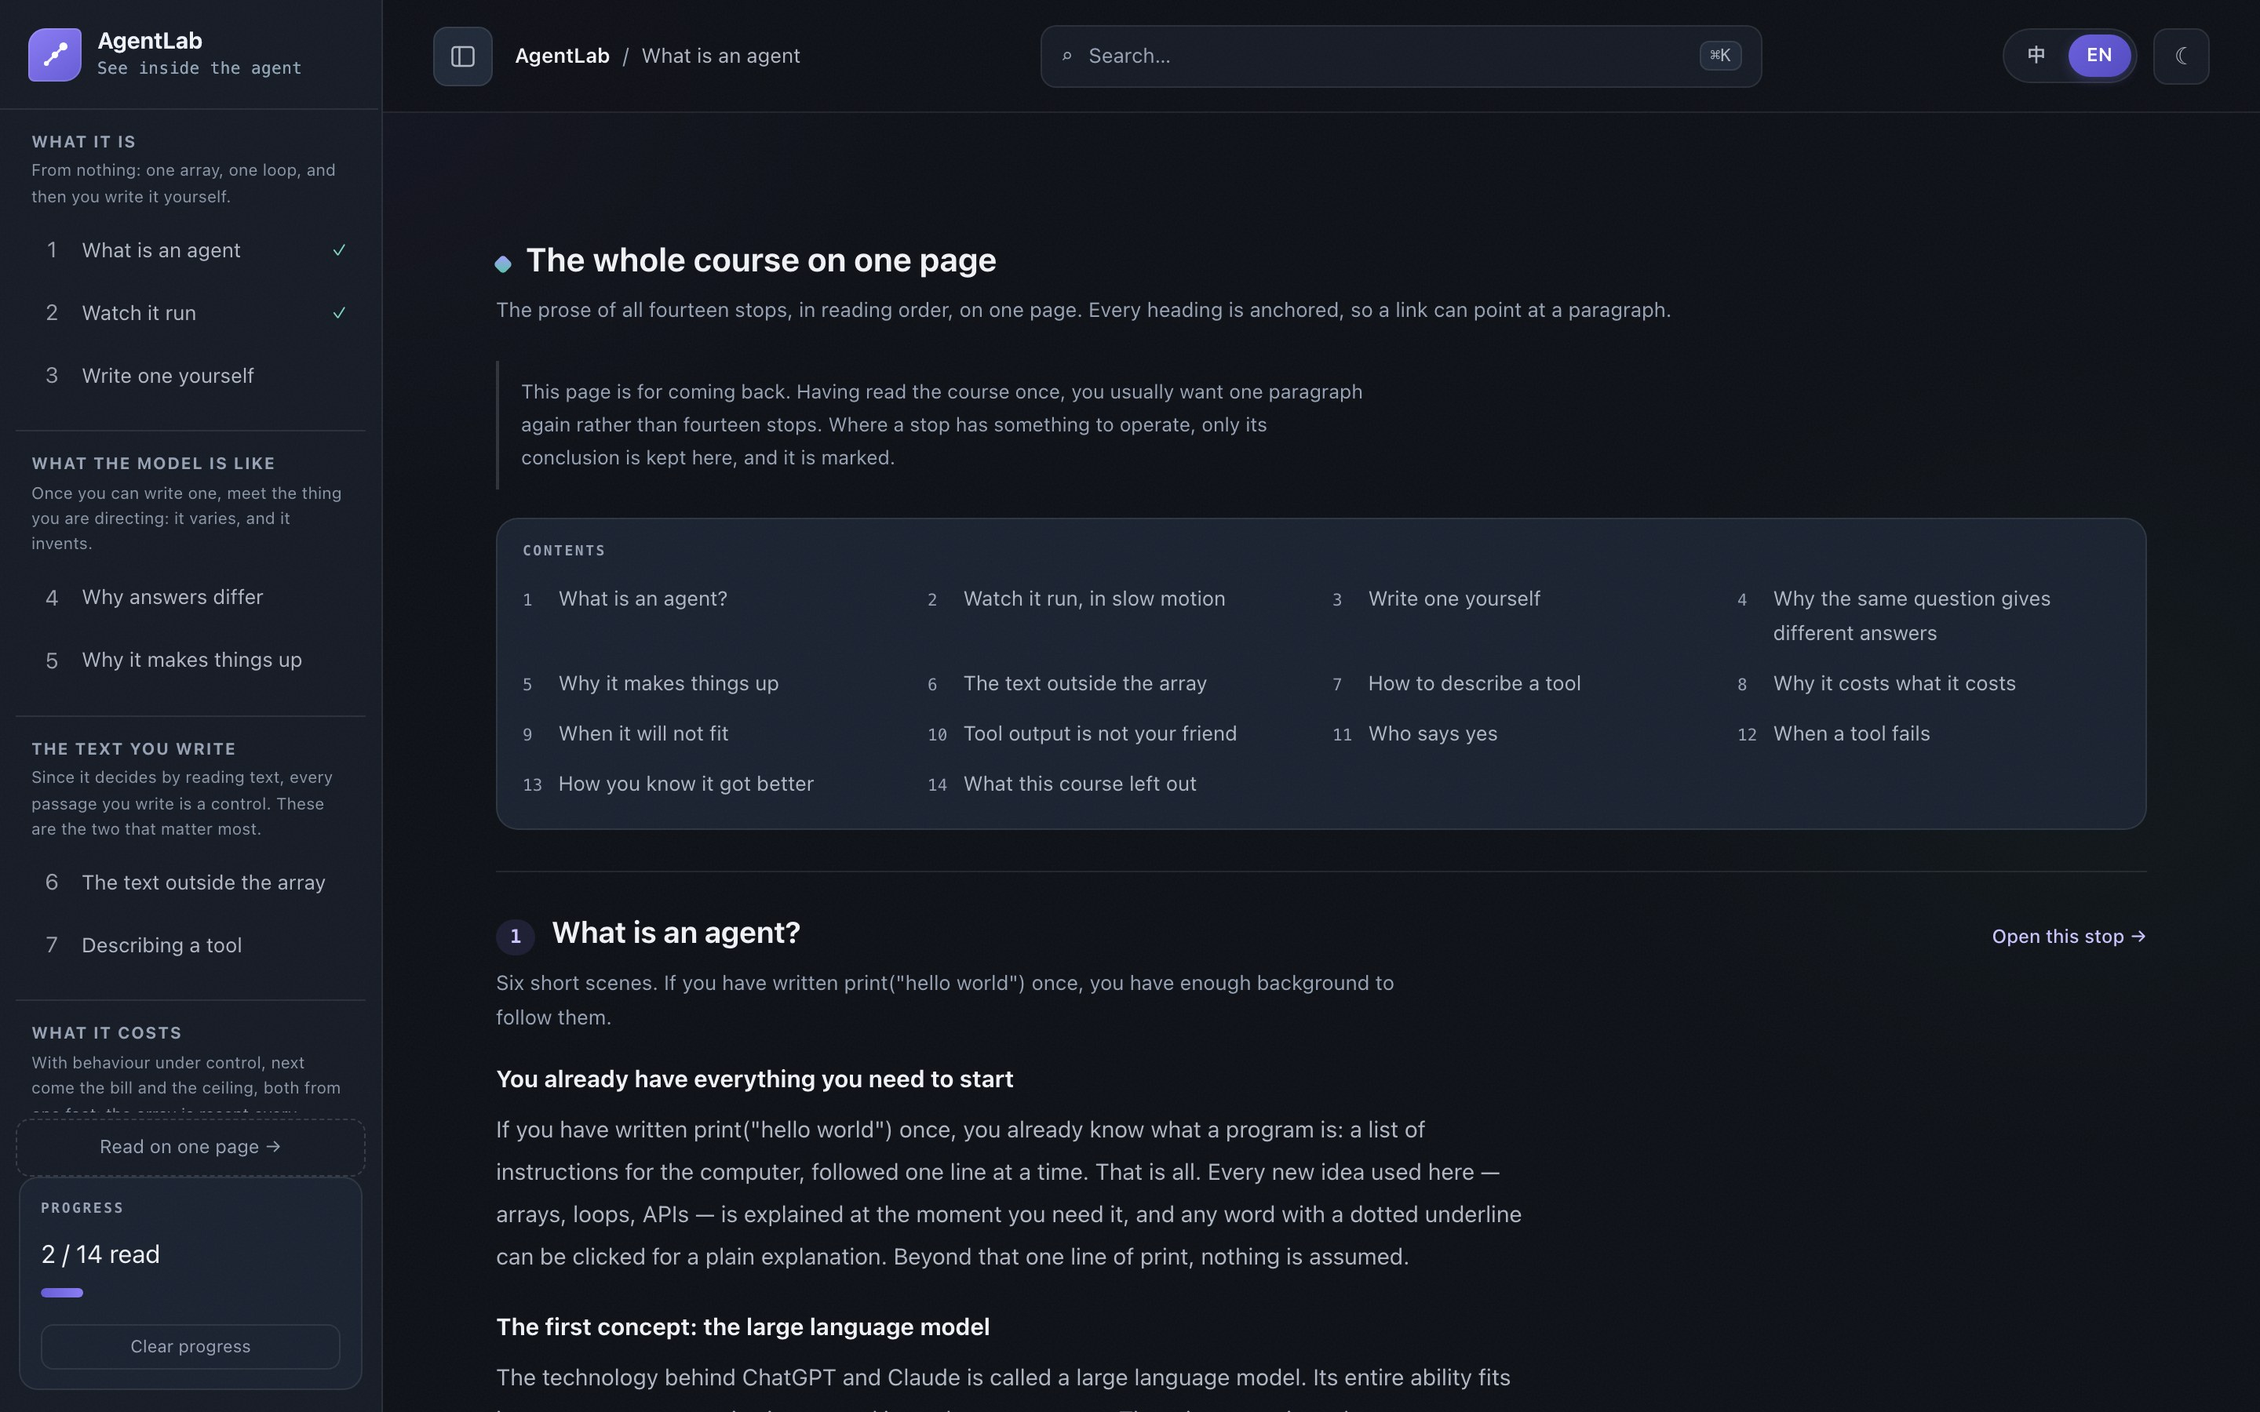
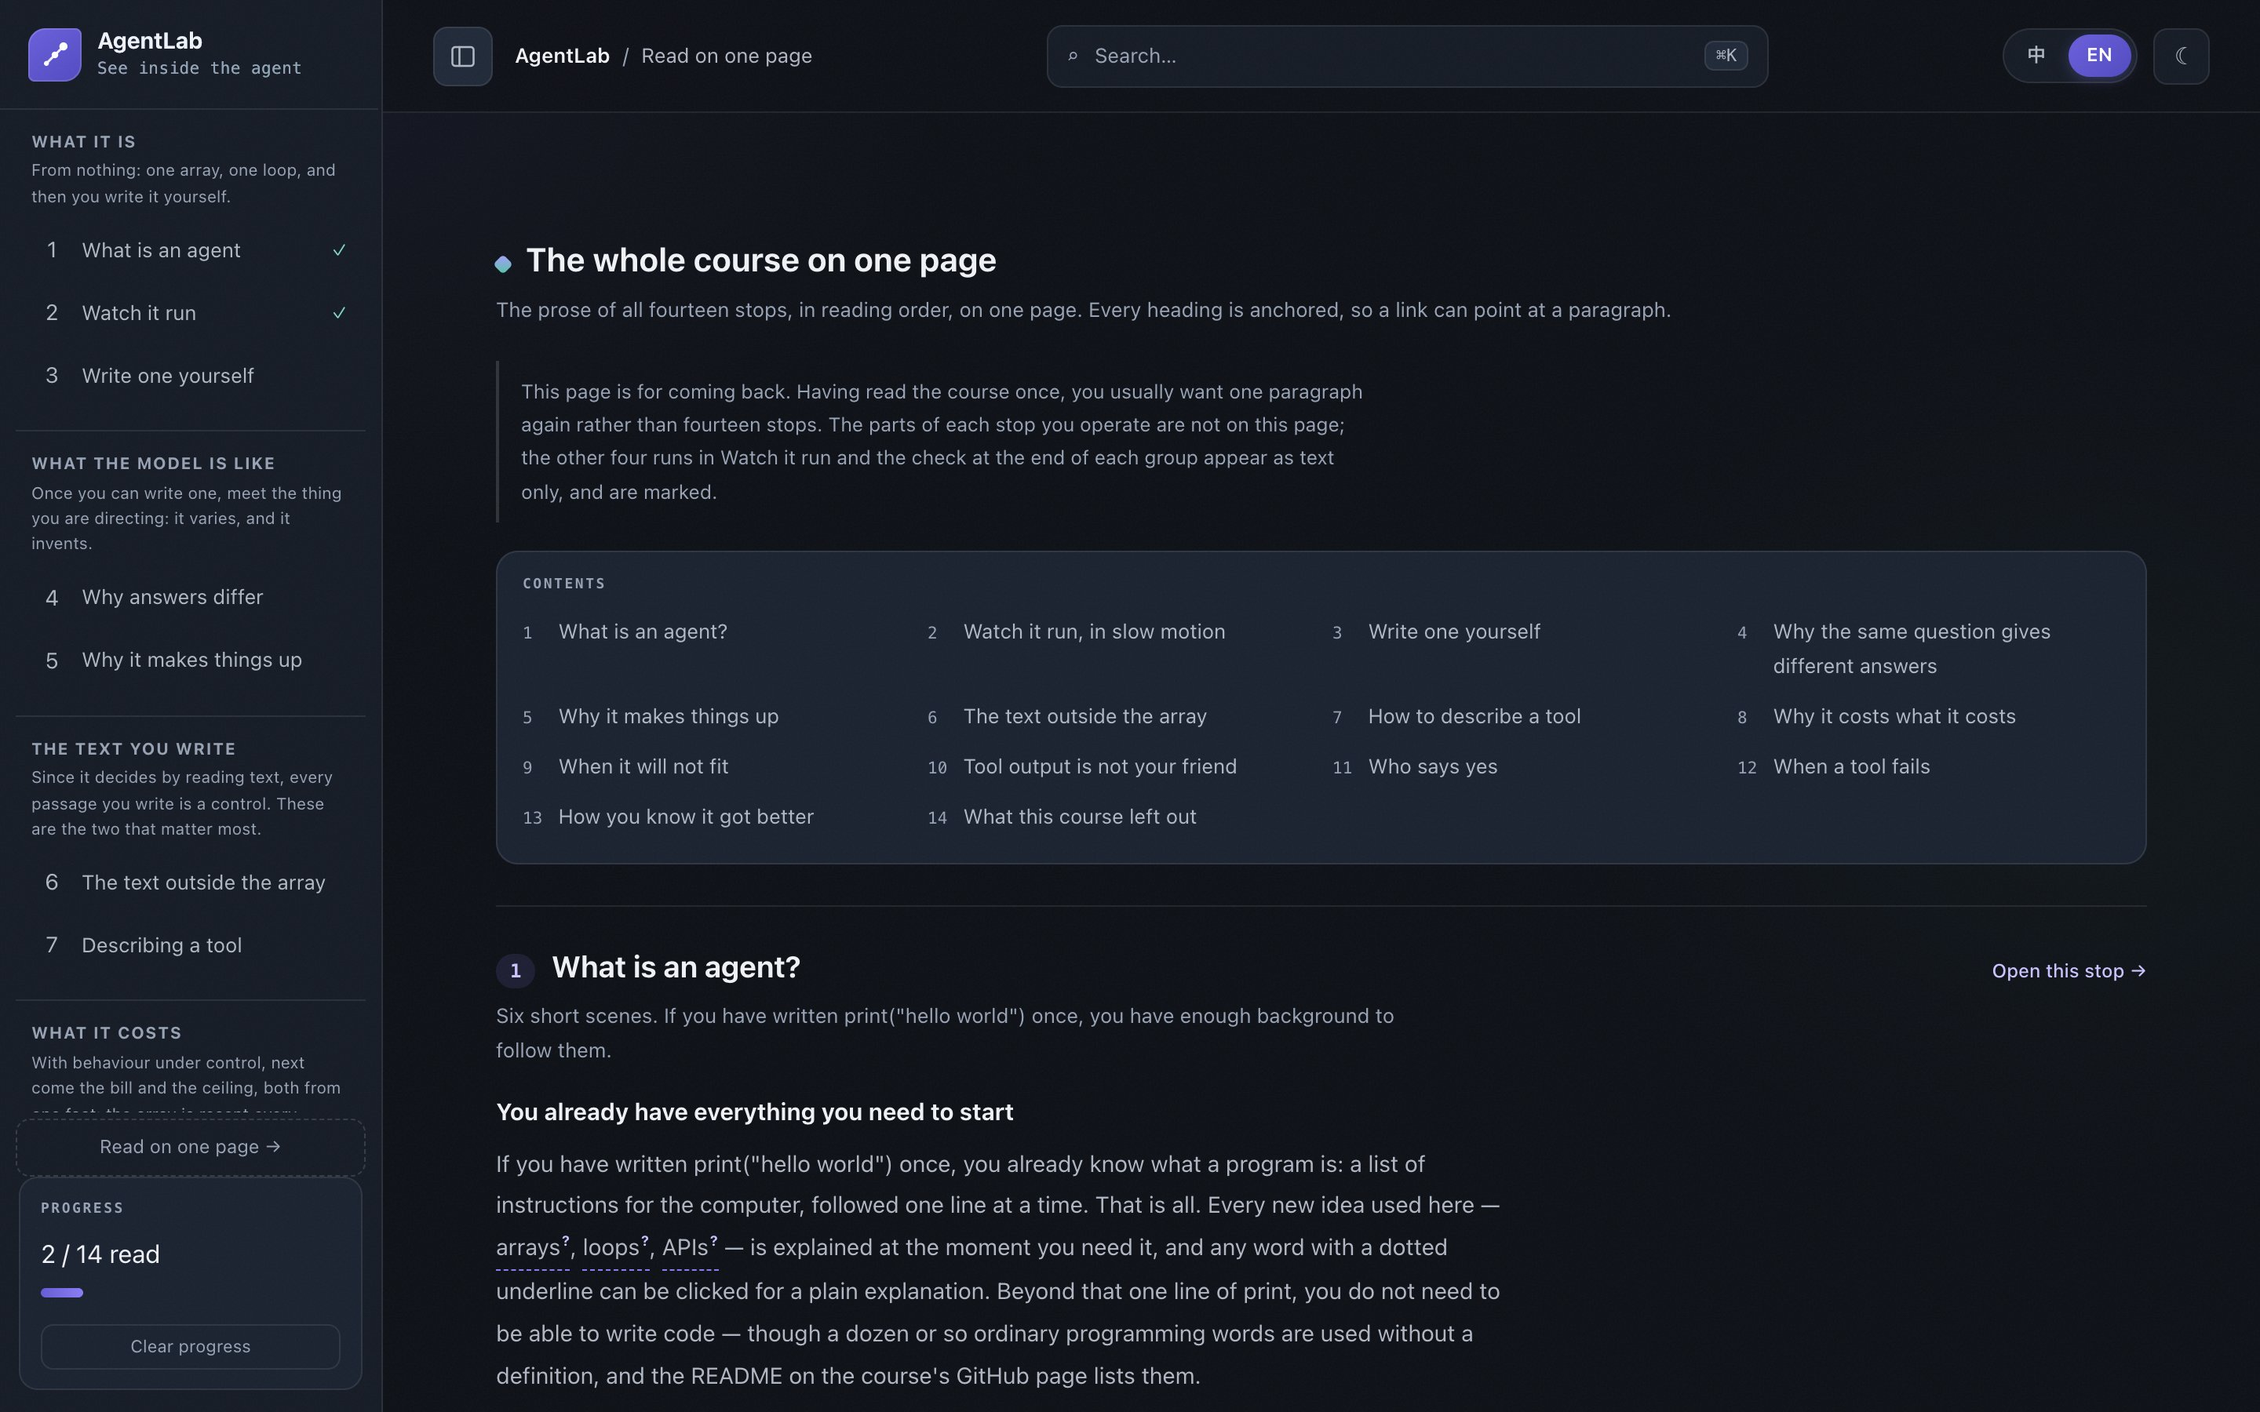
Bring the README, CLAUDE.md and screenshots up to date
The README and CLAUDE.md still described the course before this round of
fixes, and in places before the course reached fourteen stops.

README
- The stop list matches the stops: stop 1 has one line of code, /invent
  says the two answers come from the same process, /instructions removes
  every tool that can send, /again leaves two failure modes uncertain, and
  /build corrects the common wrong answers rather than every one.
- "What it assumes" counts sixteen glossary terms, and the first-met
  stops come from verify.mjs as it now measures them, over everything a
  reader meets at a stop rather than only the /all prose.
- /all, search, the bilingual note, progress and the structure table
  describe the current code: the palette loads its index when it first
  opens, a stop counts as read once you move on from it, lib/stops.ts
  appears once, and there is no useT().
- The verification figures are measured on this commit: 25 content
  checks, 123 assertions, and the contrast traversal at 90.7%, 88.9% and
  88.3% coverage across the three widths.

CLAUDE.md
- The stop list is in order with one entry per stop; /next no longer
  carries the description of /measure; the permission gate is shipped;
  the default Node is 22; the pre-paint scripts sit at the top of <body>
  and the provider writes the attributes back to <html>; new stops are
  registered in lib/order.ts, lib/stops.ts and lib/meta.ts; and the notes
  on markers, the array panel and the verify cache are recorded.
[…]

diff --git a/README.md b/README.md
@@ -43,22 +43,23 @@ be redrawn when the order changes.*
 The numbers come from position in `lib/order.ts`; nothing writes one down.
 
 1. **`/` — What an agent is.** From "a model only turns text into text" to "a program that
-   loops and calls tools", without a line of code.
+   loops and calls tools", with no code beyond one line of `print`.
 2. **`/loop` — Watch it run.** Five recorded runs: one clean, and four that go wrong — a
    loop that will not stop, a model that picks the wrong tool, a history that no longer
    fits, and a tool that fails. Each failing run ends by replaying itself with the mistake
    fixed.
 3. **`/build` — Write one yourself.** Eight blanks in a small agent skeleton. Each teaches
-   the concept before asking; every wrong answer gets a specific correction.
+   the concept before asking; the common wrong answers get a specific correction.
 4. **`/chance` — Why answers differ.** Sampling and temperature. Press *run again* and watch
    the same task take a different path. Then the consequence: an agent is not a function,
    so "it worked when I tried it" is one sample, not evidence.
 5. **`/invent` — Why it makes things up.** A fluent wrong answer and a fluent right one are
-   the same kind of object inside the model. Three questions, asked with and without tools —
-   including one about a function that does not exist.
+   produced by the same process. Three questions, asked with and without tools — including
+   one about a function that does not exist.
 6. **`/instructions` — The text outside the array.** The system prompt: where it sits, that
    it is re-sent and re-paid every round, and why "I told it to be careful" is an order of
-   magnitude weaker than not giving it the tool. The same task under three conditions.
+   magnitude weaker than not giving it any tool that can do the thing. The same task under
+   three conditions.
 7. **`/tools` — Describing a tool.** A description is a prompt, not documentation. Three
    tasks, three different omissions.
 8. **`/cost` — Why it costs that.** The array is resent every round, so spending grows with
@@ -70,8 +71,8 @@ The numbers come from position in `lib/order.ts`; nothing writes one down.
 10. **`/trust` — Tool output is not your friend.** Prompt injection, shown before it is
     named, then the mitigations and what each one does not stop.
 11. **`/permission` — Who says yes.** The loop stops before a write and you make the call.
-12. **`/again` — When a tool fails.** A call fails three ways, and in one of them you do not
-    know whether the work happened — which is the one a retry does twice. Backoff, attempt
+12. **`/again` — When a tool fails.** A call fails three ways, and in two of them you do not
+    know whether the work happened — which is when a retry can do it twice. Backoff, attempt
     limits, and idempotency through a concrete pair: a search and a payment.
 13. **`/measure` — How you know it got better.** Ten saved tasks and a pass count.
 14. **`/next` — What this course left out.** Where it stops, why, and where to go: real runs,
@@ -81,10 +82,10 @@ The numbers come from position in `lib/order.ts`; nothing writes one down.
 
 The course used to say that beyond one line of `print("hello world")`, nothing was assumed.
 That was written for a three-stop version and stopped being true a long time ago: `/build`
-asks you to read a thirty-one line skeleton, `/tools` shows a JSON tool description, `/loop`
+asks you to read a thirty-two line skeleton, `/tools` shows a JSON tool description, `/loop`
 runs a code panel beside the conversation, and `/again` is about idempotency.
 
-So here is the measured version instead. Fifteen terms have a glossary entry and are
+So here is the measured version instead. Sixteen terms have a glossary entry and are
 explained where they first appear — array, loop, API, token, object, push, stateless,
 `stop_reason`, `tool_result`, system prompt, sampling, temperature, context window, prompt
 injection, backoff, idempotent. **Seventeen more are used without one.** `verify.mjs` holds
@@ -93,14 +94,18 @@ deliberately.
 
 | | Words | First met at |
 |---|---|---|
-| **Programming vocabulary**, used as if known | 函数 / function, 变量 / variable, 字符串 / string, 布尔 / boolean, JSON, 参数 / argument, 字段 / field, 接口 / interface, 栈 / stack, 服务器 / server | `/`, `/loop`, `/build`, `/chance`, `/context` |
-| **Operational vocabulary** | 缓存 / cache, 超时 / timeout, 重试 / retry, 副作用 / side effect | `/loop`, `/chance`, `/again` |
+| **Programming vocabulary**, used as if known | 函数 / function, 变量 / variable, 字符串 / string, 布尔 / boolean, JSON, 参数 / argument, 字段 / field, 接口 / interface, 栈 / stack, 服务器 / server | `/`, `/loop`, `/build`, `/tools` |
+| **Operational vocabulary** | 缓存 / cache, 超时 / timeout, 重试 / retry, 副作用 / side effect | `/loop`, `/chance` |
 | **Domain vocabulary** the course develops by using it | 模型 / model, 提示词 / prompt, 上下文 / context | `/`, `/loop` |
 
 What that adds up to: you need to be able to **read** a short line of code, not write one. If
 you know what a function and a variable are and have seen a JSON object, nothing here will
-stop you. If you have not, the third group is the one to expect trouble from, and `/build`
-is where you would meet it.
+stop you. If you have not, the programming vocabulary is the row to expect trouble from: most
+of it first appears in the recorded runs at `/loop`, and `/build` is where you have to use it.
+
+The words are counted over everything a reader meets at a stop — the recorded runs, the
+interactive panels, the build blanks and the group checks — not only the prose that `/all`
+shows; code snippets are left out.
 
 Stating this is more useful than promising nothing. A course that names its prerequisites can
 be checked against them, and this one is: the list above comes out of the same run that
@@ -110,12 +115,12 @@ verifies the prose.
 
 - **[`/all`](https://agent-lab-blond.vercel.app/all) — the whole course on one page.** Every
   stop's prose in reading order, every heading anchored, so a link can point at a paragraph.
-  Where a stop has something to operate, only its conclusion is kept, and that is marked. It
-  prints, and it reads on a phone in one scroll.
+  The parts of a stop you operate are left out; the other recorded runs at `/loop` and the
+  group checks are kept as text, and marked. It prints, and it reads on a phone in one scroll.
 - **Search.** ⌘K searches the stop names and the prose of all fourteen stops in both
   languages, showing which stop and which section a hit came from. The index is the same
-  course view `/all` uses, flattened; it is built on the first search and there is no
-  dependency and no network request.
+  course view `/all` uses, flattened; the index and the text it is built from load the first
+  time the palette opens, as a script from the site itself, and there is no dependency.
 - **The glossary keeps up.** Sixteen terms now, each declaring the stop where it first appears.
   `verify.mjs` fails if a term is defined and never marked, or marked earlier than its entry
   claims.
@@ -161,14 +166,16 @@ npm run prove      # reverts three shipped contrast fixes; fails if the suite mi
 
 - **Simulated by default.** Every response comes from recorded data in `lib/scenarios/` —
   so it runs without an API key.
-- **Bilingual.** Every string is a `{ zh, en }` pair in `lib/i18n.tsx`.
+- **Bilingual.** Every string is a `{ zh, en }` pair: interface strings in `lib/i18n.tsx`,
+  course text in each stop's data file.
 - **A glossary built into the prose.** Writing `[[key:label]]` renders a clickable term that
   pops up a beginner-level explanation.
 - **Each group ends with a check.** Two or three questions that a reader who skimmed gets
   wrong, every wrong answer naming the misconception rather than saying "incorrect". No
   score, no progress percentage: the point is finding out something you thought you knew.
 - **Progress is remembered** in `localStorage` and shown in the sidebar, with a visible way to
-  clear it. No account, and nothing is sent anywhere.
+  clear it. A stop counts as read once you move on from your first visit, and several tabs
+  share one tally. No account, and nothing is sent anywhere.
 
 ## What is verified by what
 
@@ -177,7 +184,7 @@ which is which matters more than knowing what each one covers.
 
 | | What it checks | When it runs |
 |---|---|---|
-| `node verify.mjs` | the content: bilingual pairs, line ranges, blanks, glossary markers, stop numbers, figures quoted in prose | **automatically**, in CI, every push and pull request |
+| `node verify.mjs` | the content: bilingual pairs, line ranges, blanks, glossary markers, markers left in plain-text fields, stop numbers, figures quoted in prose, words used before they are taught | **automatically**, in CI, every push and pull request |
 | `?selftest=1`, via `npm run selftest` | the live page: roles and states, keyboard paths, contrast, headings, landmarks, the arithmetic each stop displays | **automatically**, in CI, every push and pull request |
 | `npm run prove` | that the contrast check still catches defects that have already shipped | **automatically**, in CI, on `main` after a merge |
 | `npm run counters` | that both files still contain the number of assertions they claim to, and that the traversal has not quietly stopped descending | by hand, or whenever either file is edited |
@@ -202,7 +209,7 @@ class names typed out by hand — and this is what it did:
 
 A selector that matches nothing is skipped rather than reported, so the list got
 quieter every time a class was renamed and never said so. Traversal measures
-about 207 surfaces per pass instead of 43, and roughly ten thousand across a run.
+about 190 surfaces per pass instead of 43, and over eleven thousand across a run.
 
 Traversal has the opposite failure: stepping over an element that is there. So
 the suite asserts its own coverage. Every skip has to give one of six declared
@@ -218,14 +225,14 @@ nodes skipped as well, and the ratio does not move.
 
 | Width | Measurements | Present | Coverage | Skipped, by reason |
 |---|---|---|---|---|
-| 1440 | 11,259 | 12,291 | 91.6% | clipped-to-nothing 871, fully-transparent 97, disabled 64 |
-| 768 | 11,111 | 12,291 | 90.4% | + not-rendered 148 |
-| 390 | 11,027 | 12,291 | 89.7% | + not-rendered 232 |
+| 1440 | 11,381 | 12,549 | 90.7% | clipped-to-nothing 931, fully-transparent 98, not-rendered 74, disabled 65 |
+| 768 | 11,159 | 12,549 | 88.9% | not-rendered 296, the rest as at 1440 |
+| 390 | 11,075 | 12,549 | 88.3% | not-rendered 380, the rest as at 1440 |
 
 `clipped-to-nothing` is the `.sr-only` pattern, `disabled` is the WCAG 1.4.3
 exemption, `fully-transparent` is mostly the scenes of the opening animation that
-are not the current one. The whole of the difference between 91.6% and 89.7% is
-`not-rendered`: the sidebar leaving the layout at narrow widths.
+are not the current one. The whole of the difference between 90.7% and 88.3% is
+`not-rendered`: the sidebar leaving the layout at narrower widths.
 
 `verify.mjs` fails if a list of appearance selectors reappears in the suite,
 by shape rather than by name. Two mechanisms mean the stale one keeps voting.
@@ -294,11 +301,11 @@ share of them it reached.
 The course is finished. Fourteen stops in six groups, in two languages.
 
 The numbers behind it, gathered in one place — what runs each of them is in
-[What is verified by what](#what-is-verified-by-what) above. **24 checks** over
+[What is verified by what](#what-is-verified-by-what) above. **25 checks** over
 the content on every push, including that nothing is used before the stop that
 teaches it. **123 assertions** in a real browser on every push, at three widths
-in both themes across all fourteen stops, measuring about **11,300 text
-surfaces** per run at **91.6% / 90.4% / 89.7%** coverage, with the floors
+in both themes across all fourteen stops, measuring about **11,100 to 11,400 text
+surfaces** per run at **90.7% / 88.9% / 88.3%** coverage, with the floors
 asserted from the workflow rather than only by the suite. **Three shipped
 contrast defects** put back on `main` after every merge, to check the detector
 still detects. **Five ways of breaking the counts**, run by hand, to check the
@@ -352,11 +359,10 @@ prerenders to static pages.
 | `lib/scenarios/` | Stop 2 — five recorded runs, frame by frame, one file each |
 | `lib/<stop>.ts` | One per stop from 4 onward: the model behind it, plus its prose |
 | `lib/lesson.ts` · `app/lesson.tsx` | The shared shape of a stop from 4 onward |
-| `lib/stops.ts` | The reading order; the number on a stop comes from its position |
+| `lib/stops.ts` | The stops and their groups, shared by sidebar, breadcrumb and ⌘K palette; the number on a stop comes from its position |
 | `lib/build.ts` | Stop 3 — the blanks, answers, and per-mistake corrections |
-| `lib/i18n.tsx` | Bilingual strings and the `useT()` hook |
-| `lib/glossary.tsx` | Term dictionary and the `[[key:label]]` renderer |
-| `lib/stops.ts` | The stop list shared by sidebar, breadcrumb, and ⌘K palette |
+| `lib/i18n.tsx` | Interface strings, `useLang()` and `t()` |
+| `lib/glossary.tsx` | Term dictionary, the `[[key:label]]` renderer `RichText`, and `plainText` for places a link cannot go |
 | `lib/checks.ts` · `app/group-check.tsx` | The check at the end of each of the six groups |
 | `lib/course.ts` | One shape for every stop's prose; `/all`, search and the checker share it |
 | `lib/search.ts` | The index and the query, built from `lib/course.ts` |
